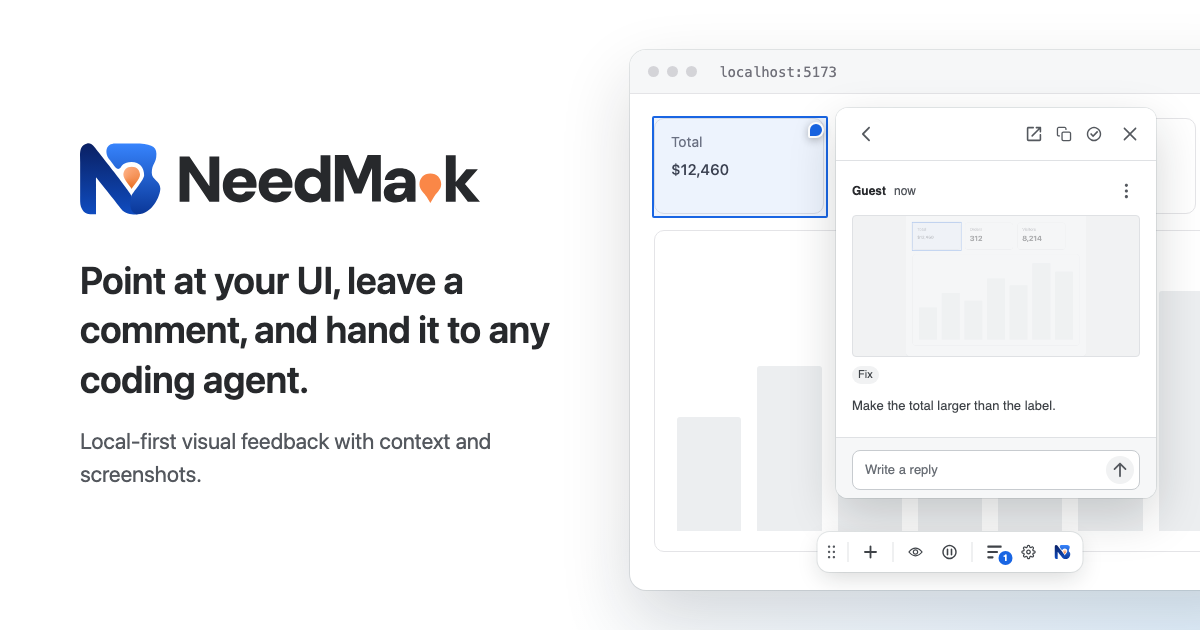
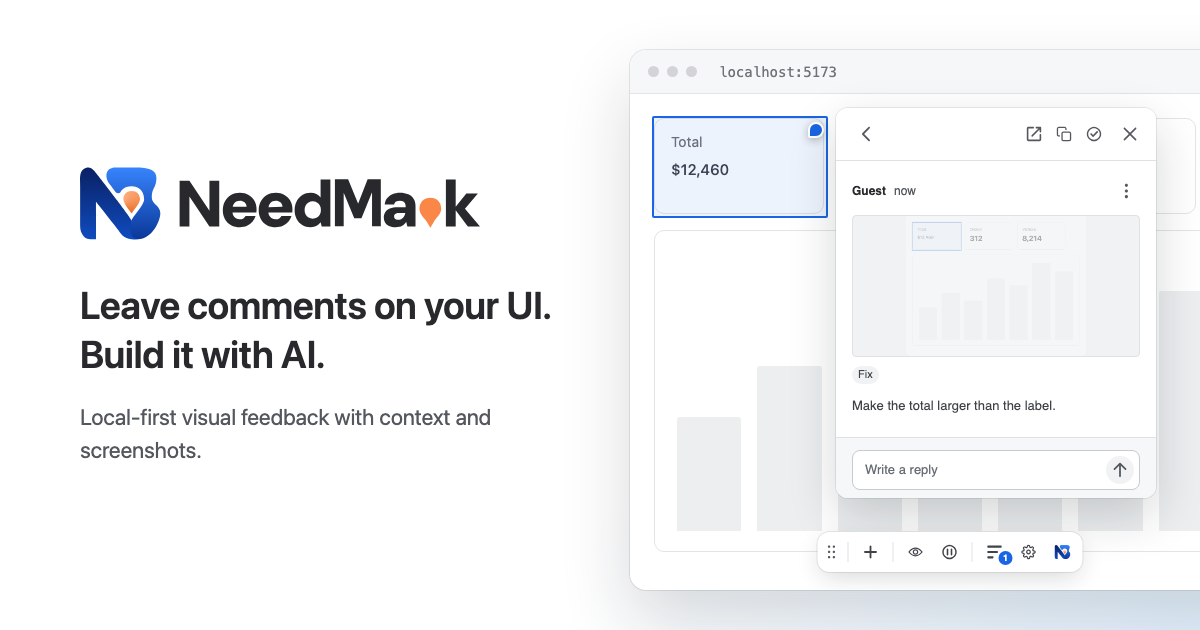
Refresh the site hero copy and split the OGP image by language
The hero now leads with "Leave comments on your UI. Build it with AI." and a short summary of what gets saved, and the meta descriptions match it. The install commands drop the dev server line because init already connects NeedMark and each project starts its server with its own command.

The Japanese page gets its own OGP image with the panel captured from the demo running in Japanese.

Changed region(s): [[0.0617, 0.4222, 0.4625, 0.7841], [0.0617, 0.2111, 0.4008, 0.3921]]

diff --git a/site/ja/index.html b/site/ja/index.html
@@ -4,18 +4,18 @@
   <meta charset="utf-8">
   <meta name="viewport" content="width=device-width, initial-scale=1">
   <title>NeedMark</title>
-  <meta name="description" content="UIを指してコメントを書き、いつものコーディングAIへ渡す。コメントと対象の情報、スクリーンショットをローカルファイルに保存します。">
+  <meta name="description" content="気になるところにコメントを書くと、その要素の情報とスクリーンショットが一緒に保存されます。Claude Code、Codex、Cursorなど、いつものコーディングAIがそれを読んで修正できます。">
   <link rel="alternate" hreflang="en" href="../">
   <meta property="og:type" content="website">
   <meta property="og:site_name" content="NeedMark">
   <meta property="og:title" content="NeedMark">
-  <meta property="og:description" content="UIを指してコメントを書き、いつものコーディングAIへ渡す。コメントと対象の情報、スクリーンショットをローカルファイルに保存します。">
+  <meta property="og:description" content="気になるところにコメントを書くと、その要素の情報とスクリーンショットが一緒に保存されます。Claude Code、Codex、Cursorなど、いつものコーディングAIがそれを読んで修正できます。">
   <meta property="og:url" content="https://mssh21.github.io/needmark/ja/">
   <meta property="og:locale" content="ja_JP">
-  <meta property="og:image" content="https://mssh21.github.io/needmark/og-image.png">
+  <meta property="og:image" content="https://mssh21.github.io/needmark/ja/og-image.png">
   <meta property="og:image:width" content="1200">
   <meta property="og:image:height" content="630">
-  <meta property="og:image:alt" content="NeedMark: Point at your UI, leave a comment, and hand it to any coding agent.">
+  <meta property="og:image:alt" content="NeedMark：画面にコメントを残して、AIとつくる。">
   <meta name="twitter:card" content="summary_large_image">
   <link rel="stylesheet" href="../style.css">
   <link rel="icon" href="../favicon.svg" type="image/svg+xml">
@@ -35,7 +35,8 @@
       <h1><picture>
               <source srcset="../logo-dark.svg" media="(prefers-color-scheme: dark)"><img src="../logo-light.svg" alt="NeedMark" width="498" height="100">
             </picture></h1>
-      <p class="lead">UIを指してコメントを書き、いつものコーディングAIへ渡す。</p>
+      <p class="lead">画面にコメントを残して、AIとつくる。</p>
+      <p class="summary">気になるところにコメントを書くと、その要素の情報とスクリーンショットが一緒に保存されます。Claude Code、Codex、Cursorなど、いつものコーディングAIがそれを読んで修正できます。</p>
       <div class="actions">
         <button class="button primary" type="button" data-copy="setup-prompt" data-copied="コピーしました">
           <span class="label">導入プロンプトをコピー</span>
@@ -206,18 +207,15 @@
         </div>
         <div data-panel="pnpm">
           <pre>pnpm add -D needmark
-pnpm exec needmark init
-pnpm dev</pre>
+pnpm exec needmark init</pre>
         </div>
         <div data-panel="npm" hidden>
           <pre>npm install -D needmark
-npx needmark init
-npm run dev</pre>
+npx needmark init</pre>
         </div>
         <div data-panel="yarn" hidden>
           <pre>yarn add -D needmark
-yarn needmark init
-yarn dev</pre>
+yarn needmark init</pre>
         </div>
         <button class="copy" type="button" aria-label="コピー"><svg class="idle" viewBox="0 0 16 16" fill="none" stroke="currentColor" stroke-width="1.4">
             <rect x="5" y="5" width="8.5" height="8.5" rx="1.5" />
@@ -226,7 +224,7 @@ yarn dev</pre>
             <path d="M3 8.5l3 3 7-7" />
           </svg></button>
       </div>
-      <p>いつもどおりアプリを開くと、ページ下部にNeedMarkのツールバーが表示されます。</p>
+      <p>いつもどおり開発サーバーを起動してアプリを開くと、ページ下部にNeedMarkのツールバーが表示されます。</p>
       <p><code>init</code>は最初に推奨設定（レビュー画面はターミナルの言語、コメントはこのコンピューターだけに保存、スクリーンショットはページを描き直して作成、開発サーバーへの接続）を示します。Enterでそのまま使い、<code>n</code>と答えると説明付きの一覧から項目ごとに選べます。質問と表示は英語です。変更した行はすべて表示し、アプリのソースと本番ビルドには触れません。</p>
       <ul>
         <li><b>Vite</b>（React、Vueなど）：<code>vite.config.*</code>の<code>plugins</code>に<code>needmark()</code>を追加します。</li>

diff --git a/site/index.html b/site/index.html
@@ -4,18 +4,18 @@
   <meta charset="utf-8">
   <meta name="viewport" content="width=device-width, initial-scale=1">
   <title>NeedMark</title>
-  <meta name="description" content="Point at your UI, leave a comment, and hand it to any coding agent. Local-first visual feedback with context and screenshots.">
+  <meta name="description" content="Write a comment wherever something needs work. NeedMark saves it with details of that element and a screenshot, so Claude Code, Codex, Cursor or whichever coding agent you already use can read it and make the fix.">
   <link rel="alternate" hreflang="ja" href="ja/">
   <meta property="og:type" content="website">
   <meta property="og:site_name" content="NeedMark">
   <meta property="og:title" content="NeedMark">
-  <meta property="og:description" content="Point at your UI, leave a comment, and hand it to any coding agent. Local-first visual feedback with context and screenshots.">
+  <meta property="og:description" content="Write a comment wherever something needs work. NeedMark saves it with details of that element and a screenshot, so Claude Code, Codex, Cursor or whichever coding agent you already use can read it and make the fix.">
   <meta property="og:url" content="https://mssh21.github.io/needmark/">
   <meta property="og:locale" content="en_US">
   <meta property="og:image" content="https://mssh21.github.io/needmark/og-image.png">
   <meta property="og:image:width" content="1200">
   <meta property="og:image:height" content="630">
-  <meta property="og:image:alt" content="NeedMark: Point at your UI, leave a comment, and hand it to any coding agent.">
+  <meta property="og:image:alt" content="NeedMark: Leave comments on your UI. Build it with AI.">
   <meta name="twitter:card" content="summary_large_image">
   <link rel="stylesheet" href="style.css">
   <link rel="icon" href="favicon.svg" type="image/svg+xml">
@@ -35,7 +35,8 @@
       <h1><picture>
         <source srcset="logo-dark.svg" media="(prefers-color-scheme: dark)"><img src="logo-light.svg" alt="NeedMark" width="498" height="100">
       </picture></h1>
-      <p class="lead">Point at your UI, leave a comment, and hand it to any coding agent.</p>
+      <p class="lead">Leave comments on your UI. Build it with AI.</p>
+      <p class="summary">Write a comment wherever something needs work. NeedMark saves it with details of that element and a screenshot, so Claude Code, Codex, Cursor or whichever coding agent you already use can read it and make the fix.</p>
       <div class="actions">
         <button class="button primary" type="button" data-copy="setup-prompt" data-copied="Copied">
           <span class="label">Copy setup prompt</span>
@@ -206,18 +207,15 @@
         </div>
         <div data-panel="pnpm">
           <pre>pnpm add -D needmark
-pnpm exec needmark init
-pnpm dev</pre>
+pnpm exec needmark init</pre>
         </div>
         <div data-panel="npm" hidden>
           <pre>npm install -D needmark
-npx needmark init
-npm run dev</pre>
+npx needmark init</pre>
         </div>
         <div data-panel="yarn" hidden>
           <pre>yarn add -D needmark
-yarn needmark init
-yarn dev</pre>
+yarn needmark init</pre>
         </div>
         <button class="copy" type="button" aria-label="Copy"><svg class="idle" viewBox="0 0 16 16" fill="none" stroke="currentColor" stroke-width="1.4">
             <rect x="5" y="5" width="8.5" height="8.5" rx="1.5" />
@@ -226,7 +224,7 @@ yarn dev</pre>
             <path d="M3 8.5l3 3 7-7" />
           </svg></button>
       </div>
-      <p>Open your app as usual; the NeedMark toolbar appears at the bottom of the page.</p>
+      <p>Start your development server and open your app as usual; the NeedMark toolbar appears at the bottom of the page.</p>
       <p><code>init</code> first offers recommended settings: the review screen in your terminal's language, feedback kept on this computer, screenshots redrawn from the page and connecting your development server. Press Enter to accept them, or answer <code>n</code> to choose each one from a list that explains it. It lists every line it changes, and never touches your application source or production builds:</p>
       <ul>
         <li><b>Vite</b> (React, Vue and others): adds <code>needmark()</code> to <code>plugins</code> in <code>vite.config.*</code>.</li>

diff --git a/site/style.css b/site/style.css
@@ -80,7 +80,7 @@ main, .top {
 h1 {
   margin: 0 auto;
   line-height: 1;
-  max-width: 380px;
+  max-width: 320px;
   width: 100%;
 }
 
@@ -93,6 +93,18 @@ h1 img {
   max-width: 520px;
   margin: 14px auto 0;
   font-size: 17px;
+  text-wrap: balance;
+}
+
+.summary {
+  margin: 10px auto 0;
+  color: var(--quiet);
+  font-size: 14px;
+  text-wrap: balance;
+}
+
+:lang(ja) .lead, :lang(ja) .summary {
+  word-break: auto-phrase;
 }
 
 .actions {
